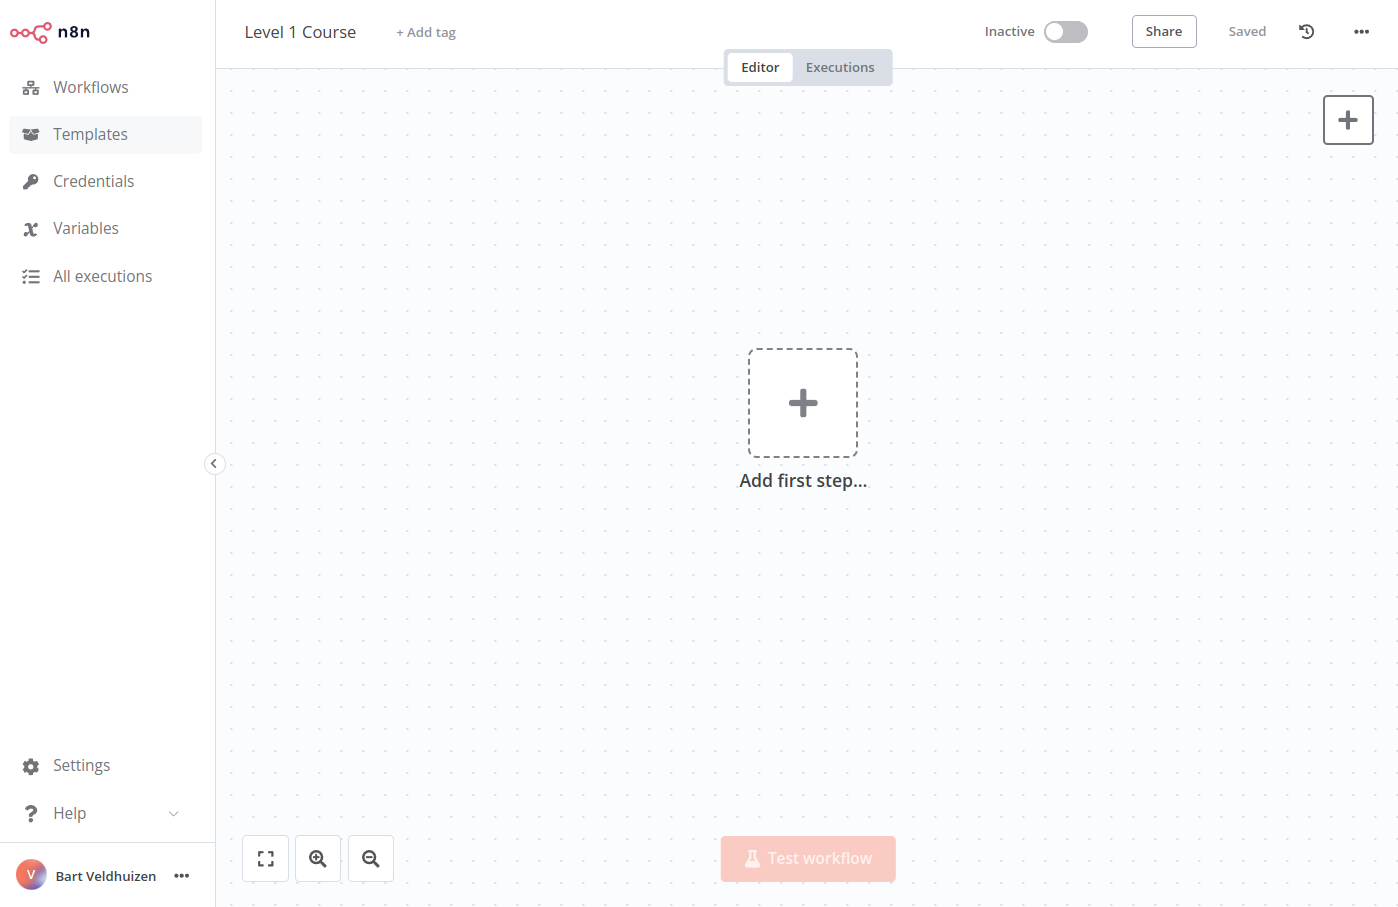
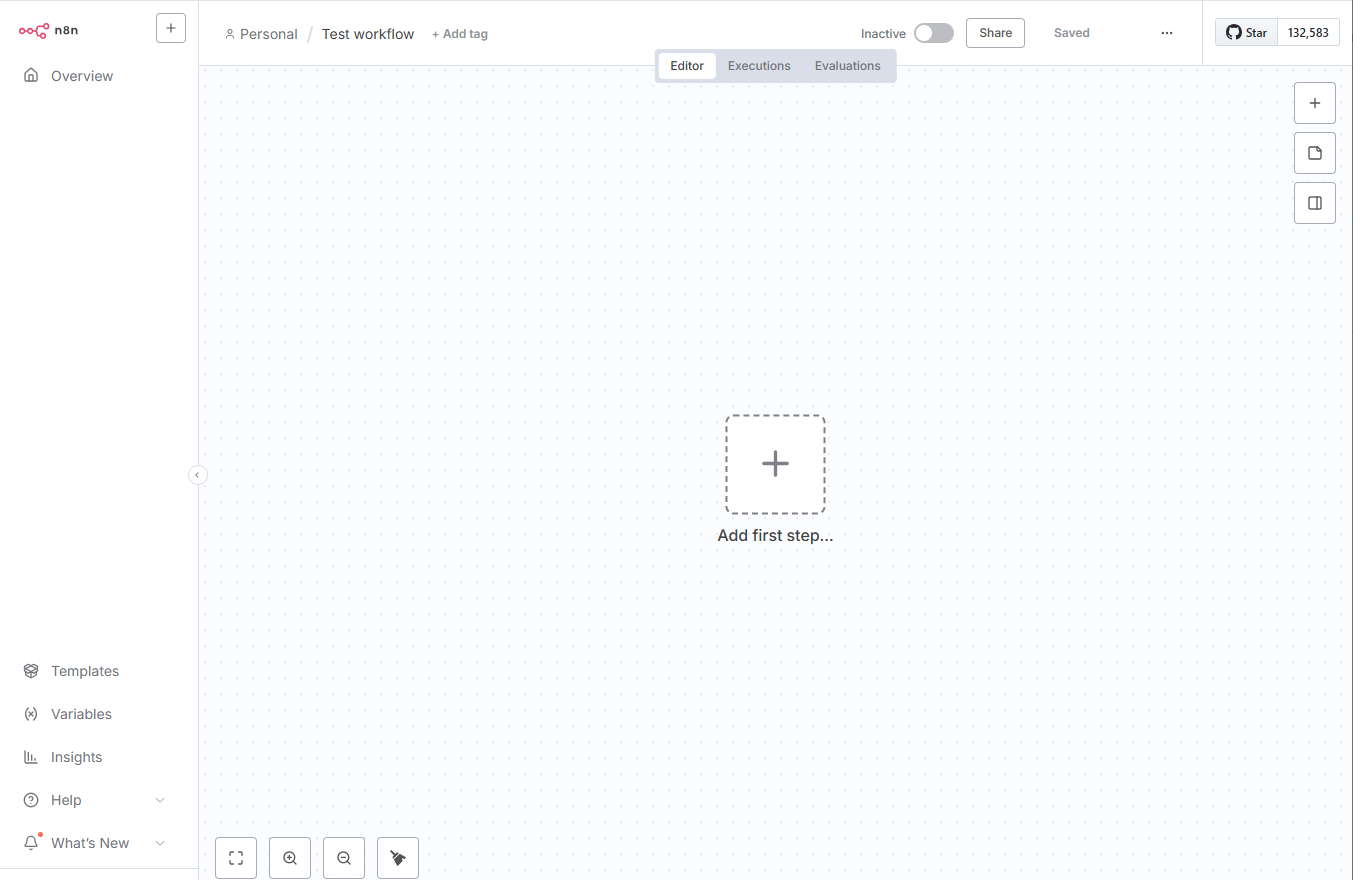
docs: update Getting Started sidebar text and screenshot (fixes #3510) (#3517)

diff --git a/docs/courses/level-one/chapter-1.md b/docs/courses/level-one/chapter-1.md
@@ -42,14 +42,11 @@ On the left side of the **Editor UI**, there is a panel which contains the core 
 The panel contains the following sections:
 
 - **Overview**: Contains all the workflows and credentials you have access to. During this course, create new workflows here.
-- **Projects**: (Not available on Community edition) Projects group workflows and credentials. You can assign [roles](/user-management/rbac/role-types.md) to users in a project to control what they can do in a project. A **Personal** project is available by default.
-- **Admin Panel**: n8n Cloud only. Access your n8n instance usage, billing, and version settings.
 - **Templates**: A collection of pre-made workflows. Great place to get started with common use cases.
 - **Variables**: Used to store and access fixed data across your workflows. This feature is available on the Pro and Enterprise Plans.
-- **All executions**: Contains information about your workflow executions.
+- **Insights**: Provides analytics and insights about your workflows. 
 - **Help**: Contains resources around n8n product and community.
-- **Update**: (When updates are available) Indicator for any recent product updates.
-- **Settings**: Under the ellipsis (`...`) menu by your username. Manage users and access settings for a variety of features.
+- **What’s New**: Shows the latest product updates and features.  
 
 <figure style="text-align: center;"><img src="/_images/courses/level-one/chapter-one/l1-c1-side-panel.png" alt="Editor UI left-side menu" style="height: 600px;"><figcaption align = "center"><i>Editor UI left-side menu</i></figcaption></figure>
 
